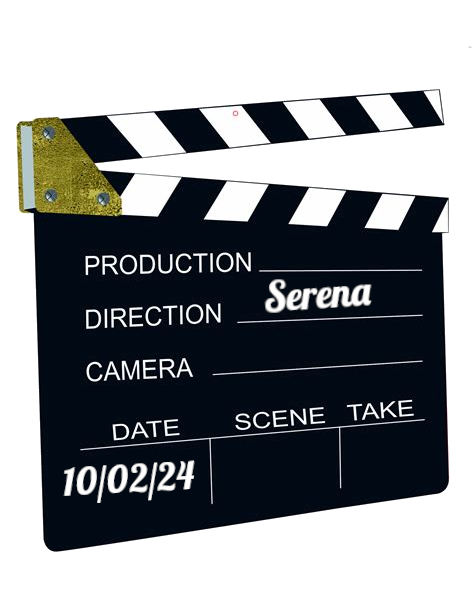
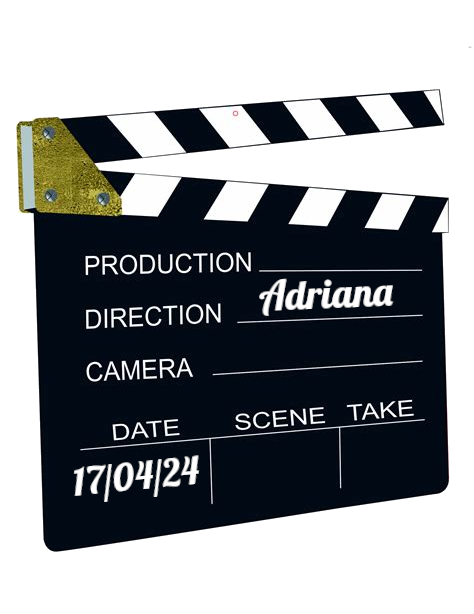
Fratello, dove sei?

Changed region(s): [[0.5316, 0.4332, 0.827, 0.5261], [0.1181, 0.7427, 0.443, 0.8355]]

diff --git a/index.html b/index.html
@@ -38,14 +38,24 @@
 
 <br /><br /><hr width="90%"><hr width="90%"><br /><br />
 
-<h1>Mercoled&igrave; 10 aprile 2024</h1>
+<h1>Mercoled&igrave; 17 aprile 2024</h1>
 <h2>Alle 20:30 in Via Nizza, 72</h2>
 
 <img src="img/ciak.png" class="locandina"/>
 
-<h2>Selezionatrice: Serena<i></i></h2>
+<h2>Selezionatrice: <i>Adriana</i></h2>
 
 <br /><br /><hr width="90%"><hr width="90%"><br /><br />
+
+<h1>Mercoled&igrave; 10 aprile 2024</h1>
+<p class="mtitle">
+<a href="https://www.imdb.com/title/tt0190590" target="_blank">Fratello, dove sei?</a>
+</p>
+<img src="https://image.tmdb.org/t/p/w500/4l1232hHvEmEwCHkxhRHQTcefAm.jpg" class="locandina"/>
+<h2>Selezionatrice: <i>Serena</i></h2>
+
+<br /><br /><hr width="90%"><br /><br />
+
 
 <h1>Mercoled&igrave; 3 aprile 2024</h1>
 

diff --git a/movieslist.html b/movieslist.html
@@ -29,6 +29,17 @@ Rassegnamoci, Cineforum a Programma Variabile - Elenco Film
   </thead>
   <tbody>
     <tr>
+      <td>10-Apr-2024</td>
+      <td>Fratello, dove sei?</td>
+      <td>Serena</td>
+      <td>-</td>
+      <td>2000</td>
+      <td>Joel Coen; Ethan Coen</td>
+      <td>107</td>
+      <td>FR; GB; US</td>
+      <td><a href="https://www.imdb.com/title/tt0190590" target="_blank">https://www.imdb.com/title/tt0190590</a></td>
+    </tr>
+    <tr>
       <td>3-Apr-2024</td>
       <td>Food for Profit</td>
       <td>Jolly</td>
